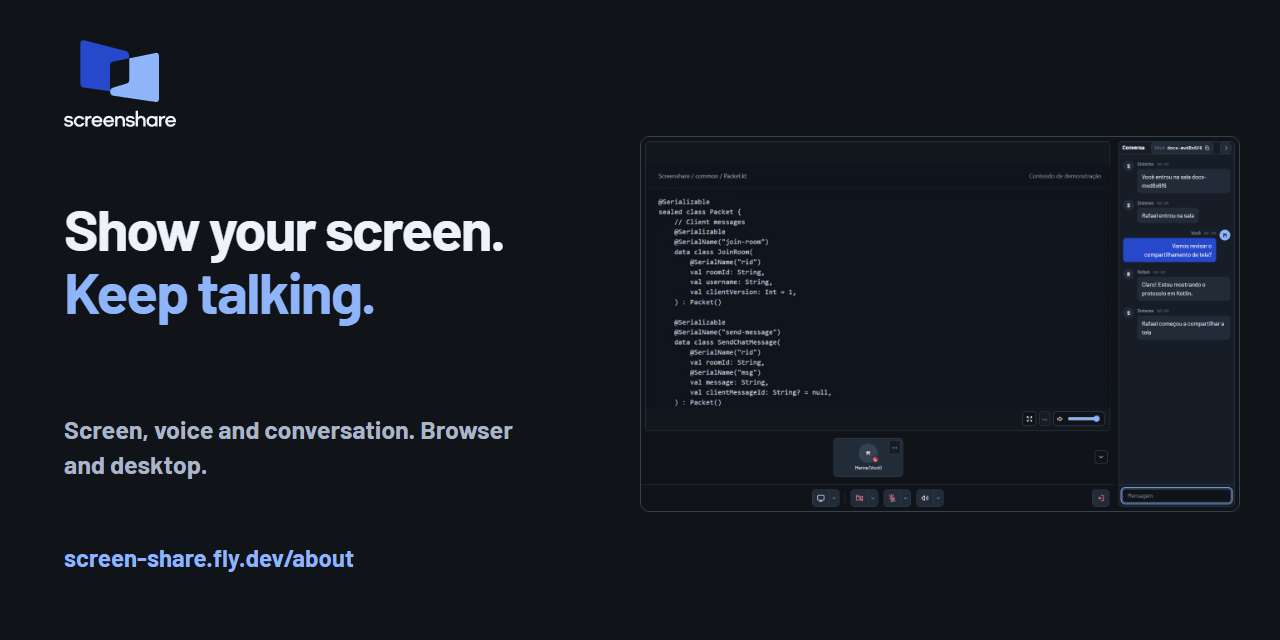
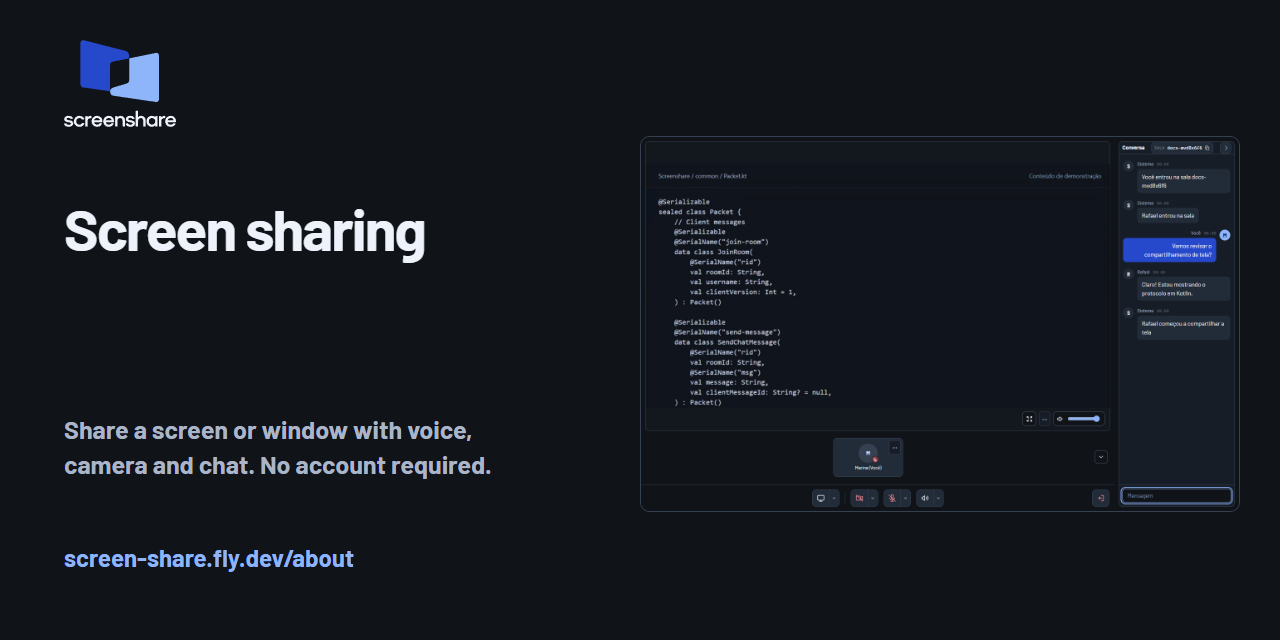
Cut promotional and redundant About page copy

Changed region(s): [[0.0312, 0.3125, 0.4062, 0.5312], [0.0312, 0.7188, 0.4062, 0.75], [0.0625, 0.6562, 0.4062, 0.6875]]

diff --git a/server/src/jvmMain/resources/presentation/index.html b/server/src/jvmMain/resources/presentation/index.html
@@ -3,8 +3,8 @@
 <head>
   <meta charset="utf-8">
   <meta name="viewport" content="width=device-width, initial-scale=1">
-  <title>Screenshare | Compartilhe a tela e converse na mesma sala</title>
-  <meta name="description" content="Compartilhe tela, voz, câmera e chat sem criar conta. Experimente no navegador ou use captura nativa no Windows e macOS.">
+  <title>Screenshare — Compartilhamento de tela</title>
+  <meta name="description" content="Compartilhamento de tela com voz, câmera e chat. Sem cadastro. Disponível no navegador, Windows e macOS.">
   <link rel="canonical" href="https://screen-share.fly.dev/about">
   <link rel="alternate" hreflang="pt-BR" href="https://screen-share.fly.dev/about">
   <link rel="alternate" hreflang="en" href="https://screen-share.fly.dev/about/en.html">
@@ -12,16 +12,16 @@
   <meta property="og:type" content="website">
   <meta property="og:site_name" content="Screenshare">
   <meta property="og:locale" content="pt_BR">
-  <meta property="og:title" content="Screenshare | Compartilhe a tela e converse na mesma sala">
-  <meta property="og:description" content="Compartilhe tela, voz, câmera e chat sem criar conta. Experimente no navegador ou use captura nativa no Windows e macOS.">
+  <meta property="og:title" content="Screenshare — Compartilhamento de tela">
+  <meta property="og:description" content="Compartilhamento de tela com voz, câmera e chat. Sem cadastro. Disponível no navegador, Windows e macOS.">
   <meta property="og:url" content="https://screen-share.fly.dev/about">
   <meta property="og:image" content="https://screen-share.fly.dev/about/assets/social-pt.png">
   <meta property="og:image:width" content="1280">
   <meta property="og:image:height" content="640">
-  <meta property="og:image:alt" content="Interface real do Screenshare: código Kotlin transmitido entre dois participantes, com conversa e controles de mídia">
+  <meta property="og:image:alt" content="Screenshare com uma tela compartilhada e o chat à direita">
   <meta name="twitter:card" content="summary_large_image">
-  <meta name="twitter:title" content="Screenshare | Compartilhe a tela e converse na mesma sala">
-  <meta name="twitter:description" content="Compartilhe tela, voz, câmera e chat sem criar conta. Experimente no navegador ou use captura nativa no Windows e macOS.">
+  <meta name="twitter:title" content="Screenshare — Compartilhamento de tela">
+  <meta name="twitter:description" content="Compartilhamento de tela com voz, câmera e chat. Sem cadastro. Disponível no navegador, Windows e macOS.">
   <meta name="twitter:image" content="https://screen-share.fly.dev/about/assets/social-pt.png">
   <link rel="icon" href="/brand/screenshare-mark.svg" type="image/svg+xml">
   <link rel="preload" href="/fonts/barlow-bold.ttf" as="font" type="font/ttf" crossorigin>
@@ -36,49 +36,43 @@
   <main id="main">
     <section class="hero wrap" aria-labelledby="headline">
       <div class="hero-copy">
-        <p class="eyebrow">Compartilhamento de tela · Código aberto</p>
-        <h1 id="headline">Mostre a tela.<br>Converse na mesma sala.</h1>
+        <h1 id="headline">Compartilhamento de tela</h1>
       </div>
       <div class="hero-description">
-        <p class="intro">Abra uma sala, envie o código e mostre o que está na sua tela. Voz, câmera e chat ficam juntos, sem criar conta.</p>
-        <div class="actions"><a class="button primary" href="/">Abrir uma sala</a><a class="text-link" href="#downloads">Ver downloads</a></div>
+        <p class="intro">Compartilhe uma tela ou janela, com voz, câmera e chat. Não precisa de conta.</p>
+        <div class="actions"><a class="button primary" href="/">Abrir no navegador</a><a class="text-link" href="#downloads">Baixar o aplicativo</a></div>
       </div>
-      <figure class="product-shot"><img src="/about/assets/room-1440.webp" srcset="/about/assets/room-720.webp 720w, /about/assets/room-1440.webp 1440w" sizes="(max-width: 767px) calc(100vw - 40px), (max-width: 1000px) calc(100vw - 48px), (max-width: 1200px) calc(100vw - 80px), 1120px" width="1440" height="900" fetchpriority="high" alt="Interface real do Screenshare: código Kotlin transmitido entre dois participantes, com conversa e controles de mídia"><figcaption>O Screenshare em uso: tela compartilhada, participantes e conversa lado a lado.</figcaption></figure>
+      <figure class="product-shot"><img src="/about/assets/room-1440.webp" srcset="/about/assets/room-720.webp 720w, /about/assets/room-1440.webp 1440w" sizes="(max-width: 767px) calc(100vw - 40px), (max-width: 1000px) calc(100vw - 48px), (max-width: 1200px) calc(100vw - 80px), 1120px" width="1440" height="900" fetchpriority="high" alt="Screenshare com uma tela compartilhada e o chat à direita"></figure>
     </section>
     <section id="demo" class="demo wrap" aria-labelledby="demo-title">
-      <div class="section-heading"><h2 id="demo-title">Da sala à primeira transmissão</h2><p>Veja como entrar, compartilhar uma tela e conversar com outra pessoa no navegador.</p></div>
+      <div class="section-heading"><h2 id="demo-title">Como usar</h2></div>
       <div class="demo-media">
-        <video controls preload="none" poster="/about/assets/demo-poster.jpg" width="1280" height="800" aria-label="Demonstração real do cliente web Screenshare">
+        <video controls preload="none" poster="/about/assets/demo-poster.jpg" width="1280" height="800" aria-label="Como compartilhar a tela pelo navegador">
           <source src="/about/assets/demo-pt.mp4" type="video/mp4">
           <track kind="captions" src="/about/assets/captions-pt.vtt" srclang="pt-BR" label="Português">
           <a href="/about/assets/demo-pt.mp4">Baixar a demonstração em MP4</a>
         </video>
-        <p class="media-note">Sessão local real no Chrome. Sem áudio gravado; a captura nativa não é demonstrada neste vídeo. <a href="/about/transcript-pt.html">Ler a transcrição</a></p>
+        <p class="media-note">Vídeo do navegador, sem áudio. <a href="/about/transcript-pt.html">Transcrição</a></p>
       </div>
-    </section>
-    <section class="capabilities wrap" aria-labelledby="features-title">
-      <h2 id="features-title">O que dá para fazer</h2>
-      <dl><div><dt>Uma tela ou uma janela</dt><dd>Mostre código, um jogo ou um projeto. Ajuste a transmissão para priorizar nitidez ou movimento.</dd></div><div><dt>Conversa sem trocar de app</dt><dd>Use voz, câmera e chat com controles independentes. Foque uma transmissão ou acompanhe as prévias.</dd></div><div><dt>Mais controle no desktop</dt><dd>Escolha telas e janelas com miniaturas, compartilhe áudio do computador ou de um aplicativo e use os controles da bandeja.</dd></div></dl>
     </section>
     <section id="downloads" class="downloads wrap" aria-labelledby="downloads-title">
-      <div class="section-heading"><h2 id="downloads-title">Baixe o app para desktop</h2><p>Use a captura nativa de tela e áudio. O app e o navegador entram nas mesmas salas; a interface está em português.</p></div>
+      <div class="section-heading"><h2 id="downloads-title">Downloads</h2><p>No aplicativo, você também pode compartilhar áudio do computador ou de um programa.</p></div>
       <div class="platforms">
-        <article aria-labelledby="windows-title"><h3 id="windows-title">Windows</h3><p class="platform-spec">x64 · Estável 0.11.1</p><p>O instalador recomendado inclui o app e permite atualizações integradas.</p><a class="button primary" data-download="windows" href="https://github.com/RafaelrainBR/screenshare-kotlin-js/releases/download/v0.11.1/Screenshare_0.11.1_x64-setup.exe">Baixar para Windows</a><p class="download-note">Instalador sem assinatura de código. O Windows pode mostrar um aviso de editor desconhecido. Requer WebView2.</p></article>
-        <article aria-labelledby="mac-title"><h3 id="mac-title">macOS</h3><p class="platform-spec">Apple Silicon · Estável 0.11.1</p><p>Para Macs M1 ou mais novos. Confira o procedimento de instalação e as permissões antes de começar.</p><a class="button secondary" href="#mac-install">Instalar no macOS</a><p class="download-note">Assinatura ad hoc, sem notarização. Áudio por aplicativo requer macOS 14.2 ou mais recente.</p></article>
+        <article aria-labelledby="windows-title"><h3 id="windows-title">Windows</h3><p class="platform-spec">x64 · Estável 0.11.1</p><a class="button primary" data-download="windows" href="https://github.com/RafaelrainBR/screenshare-kotlin-js/releases/download/v0.11.1/Screenshare_0.11.1_x64-setup.exe">Baixar para Windows</a><p class="download-note">Instalador sem assinatura de código. O Windows pode mostrar um aviso de editor desconhecido. Requer WebView2.</p></article>
+        <article aria-labelledby="mac-title"><h3 id="mac-title">macOS</h3><p class="platform-spec">Apple Silicon · Estável 0.11.1</p><a class="button secondary" href="#mac-install">Instalar no Mac</a><p class="download-note">Assinatura ad hoc, sem notarização. Áudio por aplicativo requer macOS 14.2 ou mais recente.</p></article>
       </div>
-      <p class="download-alternatives"><a href="https://github.com/RafaelrainBR/screenshare-kotlin-js/releases/latest">Outros pacotes e notas da versão</a> · <a href="https://github.com/RafaelrainBR/screenshare-kotlin-js/releases/download/v0.11.1/SHA256SUMS">SHA256SUMS</a></p>
-      <details id="mac-install" class="mac-install"><summary>Instalação no macOS, passo a passo</summary><div><p>Baixe e leia o script oficial antes de executá-lo. Ele instala o app em Aplicativos e abre o Screenshare.</p><pre><code>curl -fL https://github.com/RafaelrainBR/screenshare-kotlin-js/releases/latest/download/install-macos.sh -o install-macos.sh
+      <p class="download-alternatives"><a href="https://github.com/RafaelrainBR/screenshare-kotlin-js/releases/latest">Outros downloads</a> · <a href="https://github.com/RafaelrainBR/screenshare-kotlin-js/releases/download/v0.11.1/SHA256SUMS">SHA256SUMS</a></p>
+      <details id="mac-install" class="mac-install"><summary>Instalação no Mac</summary><div><p>Baixe e leia o script antes de executá-lo. Ele instala o Screenshare na pasta Aplicativos.</p><pre><code>curl -fL https://github.com/RafaelrainBR/screenshare-kotlin-js/releases/latest/download/install-macos.sh -o install-macos.sh
 less install-macos.sh
-bash install-macos.sh</code></pre><p>Autorize Gravação de Tela, microfone e câmera quando necessário. Se a captura parar após uma atualização, remova e adicione o app novamente em Privacidade e Segurança.</p><a data-download="mac" href="https://github.com/RafaelrainBR/screenshare-kotlin-js/releases/download/v0.11.1/Screenshare-macos-arm64.tar.gz">Baixar o arquivo do app manualmente</a></div></details>
+bash install-macos.sh</code></pre><p>Autorize Gravação de Tela, microfone e câmera quando necessário. Se a captura parar após uma atualização, remova e adicione o app novamente em Privacidade e Segurança.</p><a data-download="mac" href="https://github.com/RafaelrainBR/screenshare-kotlin-js/releases/download/v0.11.1/Screenshare-macos-arm64.tar.gz">Baixar sem usar o script</a></div></details>
     </section>
     <section class="questions wrap" aria-labelledby="questions-title">
-      <h2 id="questions-title">Dúvidas antes de começar</h2>
-      <details><summary>Preciso criar uma conta?</summary><p>Não. Digite seu nome e crie uma sala ou entre com um código. Quem tiver o código pode entrar; compartilhe com pessoas de confiança.</p></details>
-      <details><summary>Consigo compartilhar qualquer áudio?</summary><p>No navegador, depende do sistema e da fonte escolhida no seletor. O desktop oferece áudio do computador ou de um aplicativo. Conteúdo protegido pode ficar preto ou silencioso.</p></details>
-      <details><summary>O chat fica salvo?</summary><p>O servidor mantém mensagens em memória enquanto a sala existe. Elas não são um arquivo permanente e podem desaparecer com o fim da sala ou a reinicialização do servidor.</p></details>
-      <details><summary>Qual versão devo instalar?</summary><p>Os botões desta página indicam a versão estável do desktop Tauri. A variante nativa experimental é separada e não é o download recomendado aqui. <a href="https://github.com/RafaelrainBR/screenshare-kotlin-js/releases">Ver todas as releases</a></p></details>
+      <h2 id="questions-title">Dúvidas</h2>
+      <details><summary>Quem pode entrar na sala?</summary><p>Qualquer pessoa que tiver o código. Compartilhe-o apenas com quem você quer na sala.</p></details>
+      <details><summary>Dá para compartilhar áudio?</summary><p>No navegador, depende do sistema e da tela, janela ou aba escolhida. O aplicativo permite compartilhar áudio do computador ou de um programa. Conteúdo protegido pode ficar sem imagem ou som.</p></details>
+      <details><summary>As mensagens ficam salvas?</summary><p>As mensagens ficam disponíveis enquanto a sala existe. O histórico é apagado quando a sala fecha ou o servidor reinicia.</p></details>
     </section>
   </main>
-  <footer class="wrap"><p>Screenshare · Código aberto, licença MIT.</p><nav aria-label="Links do projeto"><a href="https://github.com/RafaelrainBR/screenshare-kotlin-js">Código-fonte</a><a href="https://github.com/RafaelrainBR/screenshare-kotlin-js/blob/master/docs/usage.md">Guia de uso</a><a href="https://github.com/RafaelrainBR/screenshare-kotlin-js/issues/new/choose">Reportar um problema</a></nav></footer>
+  <footer class="wrap"><p>Screenshare · Licença MIT</p><nav aria-label="Links do projeto"><a href="https://github.com/RafaelrainBR/screenshare-kotlin-js">Código-fonte</a><a href="https://github.com/RafaelrainBR/screenshare-kotlin-js/blob/master/docs/usage.md">Ajuda</a><a href="https://github.com/RafaelrainBR/screenshare-kotlin-js/issues/new/choose">Relatar problema</a></nav></footer>
 </body>
 </html>

diff --git a/server/src/jvmMain/resources/presentation/en.html b/server/src/jvmMain/resources/presentation/en.html
@@ -3,8 +3,8 @@
 <head>
   <meta charset="utf-8">
   <meta name="viewport" content="width=device-width, initial-scale=1">
-  <title>Screenshare | Share a screen and talk in the same room</title>
-  <meta name="description" content="Share your screen, voice, camera and chat without an account. Try it in your browser or use native capture on Windows and macOS.">
+  <title>Screenshare — Screen sharing</title>
+  <meta name="description" content="Screen sharing with voice, camera and chat. No account required. Available in your browser, on Windows and on macOS.">
   <link rel="canonical" href="https://screen-share.fly.dev/about/en.html">
   <link rel="alternate" hreflang="pt-BR" href="https://screen-share.fly.dev/about">
   <link rel="alternate" hreflang="en" href="https://screen-share.fly.dev/about/en.html">
@@ -12,16 +12,16 @@
   <meta property="og:type" content="website">
   <meta property="og:site_name" content="Screenshare">
   <meta property="og:locale" content="en_US">
-  <meta property="og:title" content="Screenshare | Share a screen and talk in the same room">
-  <meta property="og:description" content="Share your screen, voice, camera and chat without an account. Try it in your browser or use native capture on Windows and macOS.">
+  <meta property="og:title" content="Screenshare — Screen sharing">
+  <meta property="og:description" content="Screen sharing with voice, camera and chat. No account required. Available in your browser, on Windows and on macOS.">
   <meta property="og:url" content="https://screen-share.fly.dev/about/en.html">
   <meta property="og:image" content="https://screen-share.fly.dev/about/assets/social-en.png">
   <meta property="og:image:width" content="1280">
   <meta property="og:image:height" content="640">
-  <meta property="og:image:alt" content="Real Screenshare interface: Kotlin code streamed between two participants, with conversation and media controls">
+  <meta property="og:image:alt" content="Screenshare showing a shared screen with chat on the right">
   <meta name="twitter:card" content="summary_large_image">
-  <meta name="twitter:title" content="Screenshare | Share a screen and talk in the same room">
-  <meta name="twitter:description" content="Share your screen, voice, camera and chat without an account. Try it in your browser or use native capture on Windows and macOS.">
+  <meta name="twitter:title" content="Screenshare — Screen sharing">
+  <meta name="twitter:description" content="Screen sharing with voice, camera and chat. No account required. Available in your browser, on Windows and on macOS.">
   <meta name="twitter:image" content="https://screen-share.fly.dev/about/assets/social-en.png">
   <link rel="icon" href="/brand/screenshare-mark.svg" type="image/svg+xml">
   <link rel="preload" href="/fonts/barlow-bold.ttf" as="font" type="font/ttf" crossorigin>
@@ -36,49 +36,43 @@
   <main id="main">
     <section class="hero wrap" aria-labelledby="headline">
       <div class="hero-copy">
-        <p class="eyebrow">Screen sharing · Open source</p>
-        <h1 id="headline">Show your screen.<br>Talk in the same room.</h1>
+        <h1 id="headline">Screen sharing</h1>
       </div>
       <div class="hero-description">
-        <p class="intro">Open a room, send the code and show what is on your screen. Voice, camera and chat stay together. No account needed.</p>
-        <div class="actions"><a class="button primary" href="/">Open a room</a><a class="text-link" href="#downloads">View downloads</a></div>
+        <p class="intro">Share a screen or window with voice, camera and chat. No account required.</p>
+        <div class="actions"><a class="button primary" href="/">Open in browser</a><a class="text-link" href="#downloads">Download the app</a></div>
       </div>
-      <figure class="product-shot"><img src="/about/assets/room-1440.webp" srcset="/about/assets/room-720.webp 720w, /about/assets/room-1440.webp 1440w" sizes="(max-width: 767px) calc(100vw - 40px), (max-width: 1000px) calc(100vw - 48px), (max-width: 1200px) calc(100vw - 80px), 1120px" width="1440" height="900" fetchpriority="high" alt="Real Screenshare interface: Kotlin code streamed between two participants, with conversation and media controls"><figcaption>Screenshare in use: a shared screen, participants and conversation side by side.</figcaption></figure>
+      <figure class="product-shot"><img src="/about/assets/room-1440.webp" srcset="/about/assets/room-720.webp 720w, /about/assets/room-1440.webp 1440w" sizes="(max-width: 767px) calc(100vw - 40px), (max-width: 1000px) calc(100vw - 48px), (max-width: 1200px) calc(100vw - 80px), 1120px" width="1440" height="900" fetchpriority="high" alt="Screenshare showing a shared screen with chat on the right"></figure>
     </section>
     <section id="demo" class="demo wrap" aria-labelledby="demo-title">
-      <div class="section-heading"><h2 id="demo-title">From joining to sharing</h2><p>Watch how to join a room, share your screen and talk to someone in your browser.</p></div>
+      <div class="section-heading"><h2 id="demo-title">How to use it</h2></div>
       <div class="demo-media">
-        <video controls preload="none" poster="/about/assets/demo-poster.jpg" width="1280" height="800" aria-label="Real Screenshare browser client demonstration">
+        <video controls preload="none" poster="/about/assets/demo-poster.jpg" width="1280" height="800" aria-label="How to share your screen in a browser">
           <source src="/about/assets/demo-en.mp4" type="video/mp4">
           <track kind="captions" src="/about/assets/captions-en.vtt" srclang="en" label="English">
           <a href="/about/assets/demo-en.mp4">Download the MP4 demo</a>
         </video>
-        <p class="media-note">Real local Chrome session. No recorded audio; native capture is not demonstrated in this video. <a href="/about/transcript-en.html">Read the transcript</a></p>
+        <p class="media-note">Browser recording, no audio. <a href="/about/transcript-en.html">Transcript</a></p>
       </div>
-    </section>
-    <section class="capabilities wrap" aria-labelledby="features-title">
-      <h2 id="features-title">What you can do</h2>
-      <dl><div><dt>A screen or a window</dt><dd>Show code, a game or a project. Tune your transmission to prioritize sharpness or motion.</dd></div><div><dt>A conversation in the same app</dt><dd>Use voice, camera and chat independently. Focus on one stream or follow the previews.</dd></div><div><dt>More control on desktop</dt><dd>Pick screens and windows with thumbnails, share computer or application audio, and use tray controls.</dd></div></dl>
     </section>
     <section id="downloads" class="downloads wrap" aria-labelledby="downloads-title">
-      <div class="section-heading"><h2 id="downloads-title">Get the desktop app</h2><p>Use native screen and audio capture. The app and browser join the same rooms; the app interface is in Brazilian Portuguese.</p></div>
+      <div class="section-heading"><h2 id="downloads-title">Downloads</h2><p>The app also lets you share computer or application audio. Its interface is in Brazilian Portuguese.</p></div>
       <div class="platforms">
-        <article aria-labelledby="windows-title"><h3 id="windows-title">Windows</h3><p class="platform-spec">x64 · Stable 0.11.1</p><p>The recommended installer includes the app and supports in-app updates.</p><a class="button primary" data-download="windows" href="https://github.com/RafaelrainBR/screenshare-kotlin-js/releases/download/v0.11.1/Screenshare_0.11.1_x64-setup.exe">Download for Windows</a><p class="download-note">Not code-signed. Windows may show an unknown-publisher warning. Requires WebView2.</p></article>
-        <article aria-labelledby="mac-title"><h3 id="mac-title">macOS</h3><p class="platform-spec">Apple Silicon · Stable 0.11.1</p><p>For M1 and newer Macs. Check the installation steps and permissions before getting started.</p><a class="button secondary" href="#mac-install">Install on macOS</a><p class="download-note">Ad hoc signed, without notarization. Application audio requires macOS 14.2 or later.</p></article>
+        <article aria-labelledby="windows-title"><h3 id="windows-title">Windows</h3><p class="platform-spec">x64 · Stable 0.11.1</p><a class="button primary" data-download="windows" href="https://github.com/RafaelrainBR/screenshare-kotlin-js/releases/download/v0.11.1/Screenshare_0.11.1_x64-setup.exe">Download for Windows</a><p class="download-note">Not code-signed. Windows may show an unknown-publisher warning. Requires WebView2.</p></article>
+        <article aria-labelledby="mac-title"><h3 id="mac-title">macOS</h3><p class="platform-spec">Apple Silicon · Stable 0.11.1</p><a class="button secondary" href="#mac-install">Install on Mac</a><p class="download-note">Ad hoc signed, without notarization. Application audio requires macOS 14.2 or later.</p></article>
       </div>
-      <p class="download-alternatives"><a href="https://github.com/RafaelrainBR/screenshare-kotlin-js/releases/latest">Other packages and release notes</a> · <a href="https://github.com/RafaelrainBR/screenshare-kotlin-js/releases/download/v0.11.1/SHA256SUMS">SHA256SUMS</a></p>
-      <details id="mac-install" class="mac-install"><summary>macOS installation, step by step</summary><div><p>Download and inspect the official script before running it. It installs the app in Applications and opens Screenshare.</p><pre><code>curl -fL https://github.com/RafaelrainBR/screenshare-kotlin-js/releases/latest/download/install-macos.sh -o install-macos.sh
+      <p class="download-alternatives"><a href="https://github.com/RafaelrainBR/screenshare-kotlin-js/releases/latest">Other downloads</a> · <a href="https://github.com/RafaelrainBR/screenshare-kotlin-js/releases/download/v0.11.1/SHA256SUMS">SHA256SUMS</a></p>
+      <details id="mac-install" class="mac-install"><summary>Mac installation</summary><div><p>Download and read the script before running it. It installs Screenshare in Applications.</p><pre><code>curl -fL https://github.com/RafaelrainBR/screenshare-kotlin-js/releases/latest/download/install-macos.sh -o install-macos.sh
 less install-macos.sh
-bash install-macos.sh</code></pre><p>Allow Screen Recording, microphone and camera as needed. If capture stops after an update, remove and re-add the app in Privacy &amp; Security.</p><a data-download="mac" href="https://github.com/RafaelrainBR/screenshare-kotlin-js/releases/download/v0.11.1/Screenshare-macos-arm64.tar.gz">Download the app archive manually</a></div></details>
+bash install-macos.sh</code></pre><p>Allow Screen Recording, microphone and camera as needed. If capture stops after an update, remove and re-add the app in Privacy &amp; Security.</p><a data-download="mac" href="https://github.com/RafaelrainBR/screenshare-kotlin-js/releases/download/v0.11.1/Screenshare-macos-arm64.tar.gz">Download without the script</a></div></details>
     </section>
     <section class="questions wrap" aria-labelledby="questions-title">
-      <h2 id="questions-title">Before you get started</h2>
-      <details><summary>Do I need an account?</summary><p>No. Enter your name and create a room or join with a code. Anyone with the code can join; share it with people you trust.</p></details>
-      <details><summary>Can I share any audio?</summary><p>In a browser, it depends on your system and the source selected in the picker. Desktop offers computer or application audio. Protected content may be black or silent.</p></details>
-      <details><summary>Is chat saved?</summary><p>The server holds messages in memory while the room exists. They are not a permanent archive and can disappear when the room ends or the server restarts.</p></details>
-      <details><summary>Which version should I install?</summary><p>This page recommends the stable Tauri desktop app. The experimental native variant is separate and is not the recommended download here. <a href="https://github.com/RafaelrainBR/screenshare-kotlin-js/releases">Browse all releases</a></p></details>
+      <h2 id="questions-title">Questions</h2>
+      <details><summary>Who can join a room?</summary><p>Anyone with the code. Only share it with people you want in the room.</p></details>
+      <details><summary>Can I share audio?</summary><p>In a browser, this depends on your system and the screen, window or tab you select. The app supports computer or application audio. Protected content may have no picture or sound.</p></details>
+      <details><summary>Are messages saved?</summary><p>Messages remain available while the room exists. The history is deleted when the room closes or the server restarts.</p></details>
     </section>
   </main>
-  <footer class="wrap"><p>Screenshare · Open source, MIT licensed.</p><nav aria-label="Project links"><a href="https://github.com/RafaelrainBR/screenshare-kotlin-js">Source code</a><a href="https://github.com/RafaelrainBR/screenshare-kotlin-js/blob/master/docs/usage.md">Usage guide</a><a href="https://github.com/RafaelrainBR/screenshare-kotlin-js/issues/new/choose">Report a problem</a></nav></footer>
+  <footer class="wrap"><p>Screenshare · MIT license</p><nav aria-label="Project links"><a href="https://github.com/RafaelrainBR/screenshare-kotlin-js">Source code</a><a href="https://github.com/RafaelrainBR/screenshare-kotlin-js/blob/master/docs/usage.md">Help</a><a href="https://github.com/RafaelrainBR/screenshare-kotlin-js/issues/new/choose">Report a problem</a></nav></footer>
 </body>
 </html>

diff --git a/site/page.html b/site/page.html
@@ -36,17 +36,16 @@
   <main id="main">
     <section class="hero wrap" aria-labelledby="headline">
       <div class="hero-copy">
-        <p class="eyebrow">{{eyebrow}}</p>
-        <h1 id="headline">{{headlineOne}}<br>{{headlineTwo}}</h1>
+        <h1 id="headline">{{headline}}</h1>
       </div>
       <div class="hero-description">
         <p class="intro">{{intro}}</p>
         <div class="actions"><a class="button primary" href="/">{{try}}</a><a class="text-link" href="#downloads">{{download}}</a></div>
       </div>
-      <figure class="product-shot"><img src="/about/assets/room-1440.webp" srcset="/about/assets/room-720.webp 720w, /about/assets/room-1440.webp 1440w" sizes="(max-width: 767px) calc(100vw - 40px), (max-width: 1000px) calc(100vw - 48px), (max-width: 1200px) calc(100vw - 80px), 1120px" width="1440" height="900" fetchpriority="high" alt="{{imageAlt}}"><figcaption>{{imageCaption}}</figcaption></figure>
+      <figure class="product-shot"><img src="/about/assets/room-1440.webp" srcset="/about/assets/room-720.webp 720w, /about/assets/room-1440.webp 1440w" sizes="(max-width: 767px) calc(100vw - 40px), (max-width: 1000px) calc(100vw - 48px), (max-width: 1200px) calc(100vw - 80px), 1120px" width="1440" height="900" fetchpriority="high" alt="{{imageAlt}}"></figure>
     </section>
     <section id="demo" class="demo wrap" aria-labelledby="demo-title">
-      <div class="section-heading"><h2 id="demo-title">{{demoTitle}}</h2><p>{{demoDescription}}</p></div>
+      <div class="section-heading"><h2 id="demo-title">{{demoTitle}}</h2></div>
       <div class="demo-media">
         <video controls preload="none" poster="/about/assets/demo-poster.jpg" width="1280" height="800" aria-label="{{videoLabel}}">
           <source src="/about/assets/demo-{{shortLang}}.mp4" type="video/mp4">
@@ -56,15 +55,11 @@
         <p class="media-note">{{demoNote}} <a href="/about/transcript-{{shortLang}}.html">{{transcript}}</a></p>
       </div>
     </section>
-    <section class="capabilities wrap" aria-labelledby="features-title">
-      <h2 id="features-title">{{featuresTitle}}</h2>
-      <dl><div><dt>{{featureOne}}</dt><dd>{{featureOneBody}}</dd></div><div><dt>{{featureTwo}}</dt><dd>{{featureTwoBody}}</dd></div><div><dt>{{featureThree}}</dt><dd>{{featureThreeBody}}</dd></div></dl>
-    </section>
     <section id="downloads" class="downloads wrap" aria-labelledby="downloads-title">
       <div class="section-heading"><h2 id="downloads-title">{{downloadsTitle}}</h2><p>{{downloadsIntro}}</p></div>
       <div class="platforms">
-        <article aria-labelledby="windows-title"><h3 id="windows-title">Windows</h3><p class="platform-spec">x64 · {{stableLabel}} {{version}}</p><p>{{windowsBody}}</p><a class="button primary" data-download="windows" href="{{windowsUrl}}">{{windowsAction}}</a><p class="download-note">{{windowsNote}}</p></article>
-        <article aria-labelledby="mac-title"><h3 id="mac-title">macOS</h3><p class="platform-spec">Apple Silicon · {{stableLabel}} {{version}}</p><p>{{macBody}}</p><a class="button secondary" href="#mac-install">{{macAction}}</a><p class="download-note">{{macNote}}</p></article>
+        <article aria-labelledby="windows-title"><h3 id="windows-title">Windows</h3><p class="platform-spec">x64 · {{stableLabel}} {{version}}</p><a class="button primary" data-download="windows" href="{{windowsUrl}}">{{windowsAction}}</a><p class="download-note">{{windowsNote}}</p></article>
+        <article aria-labelledby="mac-title"><h3 id="mac-title">macOS</h3><p class="platform-spec">Apple Silicon · {{stableLabel}} {{version}}</p><a class="button secondary" href="#mac-install">{{macAction}}</a><p class="download-note">{{macNote}}</p></article>
       </div>
       <p class="download-alternatives"><a href="https://github.com/RafaelrainBR/screenshare-kotlin-js/releases/latest">{{allDownloads}}</a> · <a href="{{checksumsUrl}}">SHA256SUMS</a></p>
       <details id="mac-install" class="mac-install"><summary>{{macSummary}}</summary><div><p>{{macInstructions}}</p><pre><code>curl -fL https://github.com/RafaelrainBR/screenshare-kotlin-js/releases/latest/download/install-macos.sh -o install-macos.sh
@@ -76,7 +71,6 @@ bash install-macos.sh</code></pre><p>{{macPermission}}</p><a data-download="mac"
       <details><summary>{{questionOne}}</summary><p>{{answerOne}}</p></details>
       <details><summary>{{questionTwo}}</summary><p>{{answerTwo}}</p></details>
       <details><summary>{{questionThree}}</summary><p>{{answerThree}}</p></details>
-      <details><summary>{{questionFour}}</summary><p>{{answerFour}} <a href="https://github.com/RafaelrainBR/screenshare-kotlin-js/releases">{{releaseHistory}}</a></p></details>
     </section>
   </main>
   <footer class="wrap"><p>Screenshare · {{footer}}</p><nav aria-label="{{footerNavigation}}"><a href="https://github.com/RafaelrainBR/screenshare-kotlin-js">{{source}}</a><a href="https://github.com/RafaelrainBR/screenshare-kotlin-js/blob/master/docs/usage.md">{{guide}}</a><a href="https://github.com/RafaelrainBR/screenshare-kotlin-js/issues/new/choose">{{feedback}}</a></nav></footer>

diff --git a/server/src/jvmMain/resources/presentation/style.css b/server/src/jvmMain/resources/presentation/style.css
@@ -54,7 +54,6 @@ h3 { font-size: 28px; }
 .site-header nav a:hover { text-decoration: underline; }
 .site-header nav .language { border-left: 1px solid var(--line); padding-left: 28px; }
 .hero { display: grid; grid-template-columns: 1.3fr 1fr; gap: 48px 64px; padding-block: 64px; align-items: end; }
-.eyebrow { color: var(--dim); font-size: 16px; margin-bottom: 20px; }
 .hero h1 { font-size: clamp(36px, 4.2vw, 56px); letter-spacing: -.035em; }
 .intro { max-width: 440px; color: var(--dim); font-size: 20px; }
 .actions { display: flex; align-items: center; gap: 24px; flex-wrap: wrap; margin-top: 24px; }
@@ -67,25 +66,17 @@ h3 { font-size: 28px; }
 .text-link { font-size: 16px; padding-block: 12px; }
 .product-shot { grid-column: 1 / -1; min-width: 0; }
 .product-shot img { width: 100%; border: 1px solid var(--line); border-radius: 6px; }
-.product-shot figcaption { margin-top: 12px; color: var(--dim); font-size: 15px; }
 .demo { display: grid; grid-template-columns: 1fr 1.5fr; gap: 64px; padding-block: 56px; border-top: 1px solid var(--line); align-items: start; }
 .section-heading p { color: var(--dim); margin-top: 16px; max-width: 600px; }
 .demo-media { min-width: 0; }
 .demo video { width: 100%; background: #101318; border: 1px solid var(--line); border-radius: 6px; aspect-ratio: 16/10; }
 .media-note { margin-top: 12px; color: var(--dim); font-size: 15px; }
-.capabilities { padding-block: 56px; border-top: 1px solid var(--line); display: grid; grid-template-columns: 1fr 1.5fr; gap: 64px; }
-.capabilities dl { margin: 0; }
-.capabilities dl > div { padding-block: 24px; border-bottom: 1px solid var(--line); }
-.capabilities dl > div:first-child { padding-top: 0; }
-.capabilities dl > div:last-child { border-bottom: 0; padding-bottom: 0; }
-.capabilities dt { font-size: 21px; font-weight: 700; line-height: 1.3; }
-.capabilities dd { margin: 8px 0 0; color: var(--dim); }
 .downloads { padding-block: 56px; border-top: 1px solid var(--line); }
 .downloads .section-heading { margin-bottom: 32px; }
 .platforms { display: grid; grid-template-columns: 1fr 1fr; gap: 64px; }
 .platforms article { padding-top: 24px; border-top: 1px solid var(--line); }
 .platform-spec { color: var(--dim); font-size: 15px; margin-top: 8px; }
-.platforms article > p:not(.platform-spec):not(.download-note) { color: var(--dim); margin: 20px 0; max-width: 440px; }
+.platforms .button { margin-top: 20px; }
 .platforms .download-note { max-width: 440px; margin-top: 16px; font-size: 15px; color: var(--dim); }
 .download-alternatives { margin-top: 28px; font-size: 16px; color: var(--dim); }
 details { border-bottom: 1px solid var(--line); }
@@ -98,7 +89,7 @@ details p + p { margin-top: 16px; }
 .mac-install p { max-width: 800px; }
 .mac-install a { display: inline-block; margin-top: 16px; }
 .questions { display: grid; grid-template-columns: 1fr 1.5fr; column-gap: 64px; padding-block: 56px 80px; border-top: 1px solid var(--line); }
-.questions h2 { grid-column: 1; grid-row: 1 / 5; }
+.questions h2 { grid-column: 1; grid-row: 1 / 4; }
 .questions details { grid-column: 2; }
 .questions summary { font-size: 20px; }
 .questions details:first-of-type summary { padding-top: 0; }
@@ -115,7 +106,7 @@ footer nav a { padding-block: 10px; }
   .hero { gap: 32px; grid-template-columns: 1.2fr 1fr; }
   .hero h1 { font-size: 40px; }
   .intro { font-size: 18px; }
-  .demo, .capabilities, .questions { gap: 32px; }
+  .demo, .questions { gap: 32px; }
   .platforms { gap: 32px; }
 }
 @media (max-width: 767px) {
@@ -127,12 +118,11 @@ footer nav a { padding-block: 10px; }
   .brand img { width: 62px; height: 48px; }
   .hero { grid-template-columns: 1fr; padding-block: 36px 40px; gap: 24px; }
   .hero h1 { font-size: clamp(34px, 7vw, 46px); }
-  .eyebrow { margin-bottom: 16px; font-size: 14px; }
   .intro { max-width: 500px; }
   .actions { margin-top: 20px; gap: 20px; }
   .button { font-size: 16px; }
   .product-shot { margin-top: 8px; }
-  .demo, .capabilities, .questions { grid-template-columns: 1fr; gap: 24px; padding-block: 40px; }
+  .demo, .questions { grid-template-columns: 1fr; gap: 24px; padding-block: 40px; }
   .questions h2, .questions details { grid-column: auto; grid-row: auto; }
   .questions { row-gap: 0; }
   .questions h2 { margin-bottom: 24px; }

diff --git a/server/src/jvmMain/resources/presentation/transcript-pt.html b/server/src/jvmMain/resources/presentation/transcript-pt.html
@@ -1,1 +1,1 @@
-<!doctype html><html lang="pt-BR"><meta charset="utf-8"><meta name="viewport" content="width=device-width, initial-scale=1"><title>Ler a transcrição | Screenshare</title><meta name="robots" content="noindex"><link rel="stylesheet" href="/about/style.css"><main class="wrap transcript"><a href="/about">Screenshare</a><h1>Demonstração real do cliente web Screenshare</h1><p>Sessão local real no Chrome. Sem áudio gravado; a captura nativa não é demonstrada neste vídeo.</p><ol><li>Screenshare: tela e conversa na mesma sala.</li><li>Digite seu nome. Deixe o código vazio para criar uma sala.</li><li>Copie o código para outra pessoa entrar na mesma sala.</li><li>A conversa acontece junto da transmissão.</li><li>Uma aba real, transmitida ao outro participante por WebRTC.</li><li>Foque a transmissão e mantenha as prévias por perto.</li><li>Escolha o perfil da sua próxima tela: jogo, vídeo ou código.</li><li>Experimente em screen-share.fly.dev/about. Navegador, Windows e macOS.</li></ol><a href="/about/assets/demo-pt.mp4">Baixar a demonstração em MP4</a></main></html>
+<!doctype html><html lang="pt-BR"><meta charset="utf-8"><meta name="viewport" content="width=device-width, initial-scale=1"><title>Ler a transcrição | Screenshare</title><meta name="robots" content="noindex"><link rel="stylesheet" href="/about/style.css"><main class="wrap transcript"><a href="/about">Screenshare</a><h1>Como compartilhar a tela pelo navegador</h1><p>Vídeo do navegador, sem áudio.</p><ol><li>Screenshare: tela e conversa na mesma sala.</li><li>Digite seu nome. Deixe o código vazio para criar uma sala.</li><li>Copie o código para outra pessoa entrar na mesma sala.</li><li>A conversa acontece junto da transmissão.</li><li>Uma aba real, transmitida ao outro participante por WebRTC.</li><li>Foque a transmissão e mantenha as prévias por perto.</li><li>Escolha o perfil da sua próxima tela: jogo, vídeo ou código.</li><li>Experimente em screen-share.fly.dev/about. Navegador, Windows e macOS.</li></ol><a href="/about/assets/demo-pt.mp4">Baixar a demonstração em MP4</a></main></html>

diff --git a/server/src/jvmMain/resources/presentation/transcript-en.html b/server/src/jvmMain/resources/presentation/transcript-en.html
@@ -1,1 +1,1 @@
-<!doctype html><html lang="en"><meta charset="utf-8"><meta name="viewport" content="width=device-width, initial-scale=1"><title>Read the transcript | Screenshare</title><meta name="robots" content="noindex"><link rel="stylesheet" href="/about/style.css"><main class="wrap transcript"><a href="/about/en.html">Screenshare</a><h1>Real Screenshare browser client demonstration</h1><p>Real local Chrome session. No recorded audio; native capture is not demonstrated in this video.</p><ol><li>Screenshare: your screen and conversation in one room.</li><li>Enter your name. Leave the code empty to create a room.</li><li>Copy the code so another person can join the same room.</li><li>Keep the conversation alongside the stream.</li><li>A real browser tab, streamed to the other peer over WebRTC.</li><li>Focus the stream and keep the previews nearby.</li><li>Choose a profile for your next share: games, video or code.</li><li>Try screen-share.fly.dev/about. Browser, Windows and macOS.</li></ol><a href="/about/assets/demo-en.mp4">Download the MP4 demo</a></main></html>
+<!doctype html><html lang="en"><meta charset="utf-8"><meta name="viewport" content="width=device-width, initial-scale=1"><title>Read the transcript | Screenshare</title><meta name="robots" content="noindex"><link rel="stylesheet" href="/about/style.css"><main class="wrap transcript"><a href="/about/en.html">Screenshare</a><h1>How to share your screen in a browser</h1><p>Browser recording, no audio.</p><ol><li>Screenshare: your screen and conversation in one room.</li><li>Enter your name. Leave the code empty to create a room.</li><li>Copy the code so another person can join the same room.</li><li>Keep the conversation alongside the stream.</li><li>A real browser tab, streamed to the other peer over WebRTC.</li><li>Focus the stream and keep the previews nearby.</li><li>Choose a profile for your next share: games, video or code.</li><li>Try screen-share.fly.dev/about. Browser, Windows and macOS.</li></ol><a href="/about/assets/demo-en.mp4">Download the MP4 demo</a></main></html>

diff --git a/docs/presence/about-review.md b/docs/presence/about-review.md
@@ -37,3 +37,9 @@ Deployment replaces the web server and can interrupt in-memory rooms. No desktop
 - Local mobile Lighthouse: performance 94, accessibility 100, best practices 100, SEO 100. Performance was 84 before responsive media and font preload; simulated mobile LCP improved from 4.2s to 3.0s. These are lab measurements, not production field data.
 - Screenshot delivered as lossless WebP: 720px / 74,760 bytes and 1440px / 199,988 bytes, compared with the retained 272,126-byte PNG. No artwork was generated or changed.
 - Screenshots and JSON reports: `artifacts/qa/presence/` (local, ignored).
+
+## Editorial correction
+
+The first revision retained too much landing-page copy. The follow-up removes the eyebrow, two-part slogan, screenshot caption, demo introduction, entire capabilities section, generic platform descriptions and the FAQ about internal release variants. The remaining copy identifies the product, offers the browser/download actions and explains installation, room access, audio limits and chat retention. PT body text drops from 489 to 254 whitespace-delimited words, including collapsed content. English and social preview images follow the same edit. Recording transcripts retain the words in the existing video; only their headings and descriptions change.
+
+The deployment smoke check compares the generated HTML instead of depending on an old slogan. Generator tests, production build and all existing browser QA checks pass after this edit.
